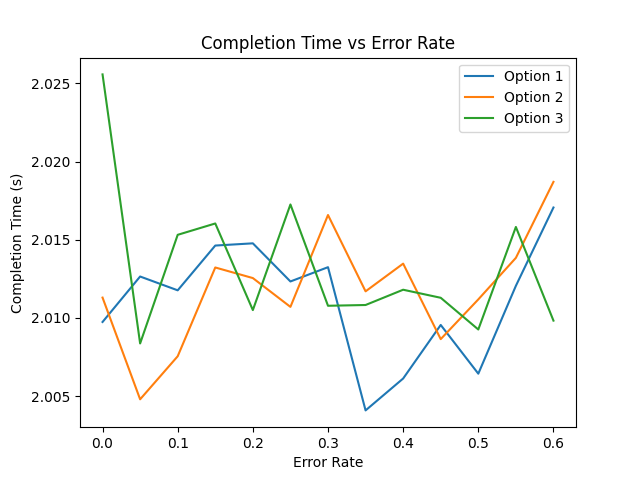
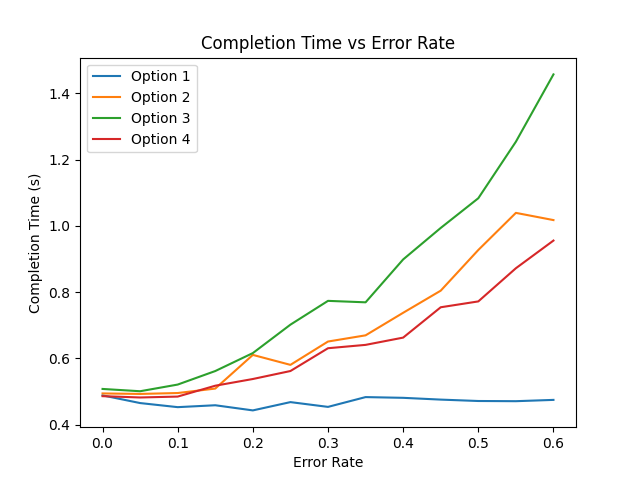
all options implemented, option 5 takes way too long, trying to fix the issue

diff --git a/team4/file_transfer.py b/team4/file_transfer.py
@@ -50,7 +50,7 @@ def make_packet(file_path, packet_size=1024):
 
 def create_udp_socket():
     sock = socket.socket(socket.AF_INET, socket.SOCK_DGRAM)
-    sock.settimeout(2)  # Set a shorter timeout for socket operations
+    sock.settimeout(0.5)  # Set a shorter timeout for socket operations
     return sock
 
 def send_packet(sock, packet, address):
@@ -59,18 +59,19 @@ def send_packet(sock, packet, address):
 def receive_packet(sock, buffer_size=1030):  # Increased buffer size to 1030 (1024 + 6 for header)
     return sock.recvfrom(buffer_size)
 
-def send_file(file_path, update_fsm_state, option, error_rate, retry_count=3, address=('localhost', 12345)):
+def send_file(file_path, update_fsm_state, option, error_rate, ack_loss_rate, retry_count=3, address=('localhost', 12345)):
     packets = make_packet(file_path)
     sock = create_udp_socket()
     seq_num = 0
 
     for index, packet in enumerate(packets):
         rdt_packet = make_rdt_packet(seq_num, packet)
-        try:
-            
-            send_packet(sock, rdt_packet, address)
-            print(f"Client: Sent packet {index}")
-            while True:
+        
+        while True:
+            try:
+                send_packet(sock, rdt_packet, address)
+                print(f"Client: Sent packet {index}")
+
                 #Wait for acknoledgement
                 ack_packet, _ = receive_packet(sock) #checksum, seq_num
                 ack_checksum, ack_seq_num = parse_ack_packet(ack_packet)
@@ -82,31 +83,37 @@ def send_file(file_path, update_fsm_state, option, error_rate, retry_count=3, ad
                     ack_seq_num = 1 - ack_seq_num  #flip sequence number to from 1 to 0
                     #continue  # Simulate packet loss
 
+                if random.random() < ack_loss_rate:
+                    print(f"option4: Simulating ACK loss for packet {index}")
+                    continue  # Simulate ACK loss by skipping this iteration
+
                 if ack_seq_num == seq_num and not is_ack_corrupt(ack_packet):
                     print(f"Client: Received ACK for packet {index}")
                     seq_num = 1 - seq_num
                     break  #continue with next packet
                 else: #acknoledgement corrupt or out of sequence, Retransmitting.
-                    send_packet(sock, rdt_packet, address)  #resend current package
+                    #send_packet(sock, rdt_packet, address)  #resend current package #commented out because I of line 72 will resend anyways
                     print(f"Client: ack is out of sequence, retransmitting packet {index}")
-        except ConnectionResetError as e:
-            print(f"ConnectionResetError: {e}")
-            if retry_count > 0:
-                print(f"Retrying... {retry_count} attempts left.")
-                time.sleep(1)  # Reduced sleep duration
-                send_file(file_path, update_fsm_state, option, error_rate, retry_count - 1, address)
-                return
-            else:
+    
+            except ConnectionResetError as e:
+                print(f"ConnectionResetError: {e}")
+                if retry_count > 0:
+                    print(f"Retrying... {retry_count} attempts left.")
+                    time.sleep(1)  # Reduced sleep duration
+                    send_file(file_path, update_fsm_state, option, error_rate, retry_count - 1, address)
+                    return
+                else:
+                    update_fsm_state(f"Error sending packet {index}: {e}")
+                    return
+            except socket.timeout:
+                print(f"Timeout waiting for ACK for packet {index}")
+                update_fsm_state(f"Timeout waiting for ACK for packet {index}")
+                #return
+            except Exception as e:
+                print(f"Error sending packet {index}: {e}")
                 update_fsm_state(f"Error sending packet {index}: {e}")
-                return
-        except socket.timeout:
-            print(f"Timeout waiting for ACK for packet {index}")
-            update_fsm_state(f"Timeout waiting for ACK for packet {index}")
-            return
-        except Exception as e:
-            print(f"Error sending packet {index}: {e}")
-            update_fsm_state(f"Error sending packet {index}: {e}")
-            return
+                #return
+        
         update_fsm_state(f"Sent packet {index}")
 
     # Send an empty packet to indicate the end of the file transfer
@@ -129,7 +136,7 @@ def corrupt_packet(packet):
     return header + bytes(corrupted_data)
 
 
-def receive_file(update_fsm_state, option, error_rate, sock, listen_address, save_path):
+def receive_file(update_fsm_state, option, error_rate, data_loss_rate , sock, listen_address, save_path):
     while True:
         try:
             sock.bind(listen_address)
@@ -152,6 +159,14 @@ def receive_file(update_fsm_state, option, error_rate, sock, listen_address, sav
                 #old_rdt_packet = rdt_packet
                 rdt_packet = corrupt_packet(rdt_packet)
                 #print(f"old: {calculate_checksum(old_rdt_packet)}, new: {calculate_checksum(rdt_packet)}, is_corrupt(rdt_packet){is_corrupt(rdt_packet)}")
+
+            #data_loss_rate = 0.2  # 20% probability of dropping DATA packets
+
+            # Simulate DATA packet loss
+            if random.random() < data_loss_rate and parse_rdt_packet(rdt_packet)[2] != b'':
+                print(f"Option 5: Simulating DATA packet loss for packet {index}")
+                continue  # Skip processing the received DATA packet
+
 
             if not is_corrupt(rdt_packet):
                 _, seq_num, data = parse_rdt_packet(rdt_packet)
@@ -179,12 +194,12 @@ def receive_file(update_fsm_state, option, error_rate, sock, listen_address, sav
                 send_packet(sock, ack_packet, sender_address)
         except socket.timeout:
             print(f"Timeout waiting for packet {index}")
-            update_fsm_state(f"Timeout waiting for packet{index}")
-            return
+            update_fsm_state(f"Timeout waiting for packet {index}")
+            #return
         except Exception as e:
             print(f"Error receiving packet {index}: {e}")
             update_fsm_state(f"Error receiving packet {index}: {e}")
-            return
+            #return
 
     with open(save_path, 'wb') as f:
         for i in range(len(received_packets)):

diff --git a/team4/performance_plots.py b/team4/performance_plots.py
@@ -6,35 +6,51 @@ from file_transfer import send_file, receive_file, create_udp_socket  # Import c
 def update_fsm_state(state):
     print(f"FSM State: {state}")
 
-def start_server(option, error_rate):
+def start_server(option, error_rate, data_loss_rate):
     def server_thread():
-        receive_file(update_fsm_state, option, error_rate, sock=create_udp_socket(), listen_address=('localhost', 12345), save_path='received_image.jpg')
+        receive_file(update_fsm_state, option, error_rate, data_loss_rate, sock=create_udp_socket(), listen_address=('localhost', 12345), save_path='received_image.jpg')
     thread = threading.Thread(target=server_thread, daemon=True)
     thread.start()
     return thread
 
 def measure_completion_time(file_path, option, error_rate):
     if option == 1: # noerrors
-        server_thread = start_server(option, 0)
-        time.sleep(1)  # Give the server some time to start
+        server_thread = start_server(option, 0, 0)
+        time.sleep(0.5)  # Give the server some time to start
         start_time = time.time()
-        send_file(file_path, update_fsm_state, option, 0)
+        send_file(file_path, update_fsm_state, option, 0, 0)
         server_thread.join()  # Wait for the server to finish
         end_time = time.time()
         return end_time - start_time
     elif option == 2:
-        server_thread = start_server(option, 0)
-        time.sleep(1)  # Give the server some time to start
+        server_thread = start_server(option, 0, 0)
+        time.sleep(0.5)  # Give the server some time to start
         start_time = time.time()
-        send_file(file_path, update_fsm_state, option, error_rate)
+        send_file(file_path, update_fsm_state, option, error_rate, 0)
         server_thread.join()  # Wait for the server to finish
         end_time = time.time()
         return end_time - start_time
     elif option == 3:
-        server_thread = start_server(option, error_rate)
-        time.sleep(1)  # Give the server some time to start
+        server_thread = start_server(option, error_rate, 0)
+        time.sleep(0.5)  # Give the server some time to start
         start_time = time.time()
-        send_file(file_path, update_fsm_state, option, 0)
+        send_file(file_path, update_fsm_state, option, 0 , 0)
+        server_thread.join()  # Wait for the server to finish
+        end_time = time.time()
+        return end_time - start_time
+    elif option == 4:
+        server_thread = start_server(option, 0, 0)
+        time.sleep(0.5)  # Give the server some time to start
+        start_time = time.time()
+        send_file(file_path, update_fsm_state, option, 0 , error_rate)
+        server_thread.join()  # Wait for the server to finish
+        end_time = time.time()
+        return end_time - start_time
+    elif option == 5:
+        server_thread = start_server(option, 0, error_rate)
+        time.sleep(0.5)  # Give the server some time to start
+        start_time = time.time()
+        send_file(file_path, update_fsm_state, option, 0 , 0)
         server_thread.join()  # Wait for the server to finish
         end_time = time.time()
         return end_time - start_time
@@ -42,14 +58,14 @@ def measure_completion_time(file_path, option, error_rate):
 
 
 def plot_performance():
-    file_path = 'C:/Users/lpenama/Downloads/Repo/Spring-25---Network-Design/team4/phase_2.jpg'  # Use a 500KB file for transmission
+    file_path = r'C:\Users\Luis D. Pena Mateo\OneDrive\Desktop\Spring2025\Spring-25---Network-Design\team4\phase_2_JPG_500kB.jpg'  # Use a 500KB file for transmission
     error_rates = [i / 100 for i in range(0, 65, 5)]
-    options = [1, 2, 3]
+    options = [1, 2, 3, 4]
     completion_times = {option: [] for option in options}
 
     for option in options:
         for error_rate in error_rates:
-            times = [measure_completion_time(file_path, option, error_rate) for _ in range(10)]
+            times = [measure_completion_time(file_path, option, error_rate) for _ in range(3)]
             avg_time = sum(times) / len(times)
             completion_times[option].append(avg_time)
             print(f"Option {option}, Error Rate {error_rate}: {avg_time} seconds")

diff --git a/team4/server_phase_2.py b/team4/server_phase_2.py
@@ -14,17 +14,19 @@ class FileTransferServer:
 
     def create_udp_socket(self):
         sock = socket.socket(socket.AF_INET, socket.SOCK_DGRAM)
-        sock.settimeout(2)  # Set a shorter timeout for socket operations
+        sock.settimeout(0.2)  # Reduced timeout for faster retries
         return sock
 
     def start(self):
-        threading.Thread(target=self.receive_file_with_status, daemon=True).start()
+        receiver_thread = threading.Thread(target=self.receive_file_with_status, daemon=True)
+        receiver_thread.start()
+        receiver_thread.join()  # Wait for the receiver thread to finish
 
     def receive_file_with_status(self):
         try:
             print("Receiving file...")
             start_time = time.time()
-            receive_file(self.update_fsm_state, option=1, error_rate=0.0, sock=self.sock, listen_address=self.listen_address, save_path=self.save_path)  # Pass the required arguments
+            receive_file(self.update_fsm_state, option=1, error_rate=0.0, data_loss_rate=0.1, sock=self.sock, listen_address=self.listen_address, save_path=self.save_path)
             end_time = time.time()
             transfer_time = end_time - start_time
             print(f"File received successfully in {transfer_time:.2f} seconds!")
@@ -37,5 +39,5 @@ class FileTransferServer:
 if __name__ == "__main__":
     server = FileTransferServer()
     server.start()
-    while True:
-        time.sleep(1)  # Keep the server running
+    #while True:
+        #time.sleep(1)  # Keep the server running

diff --git a/team4/client_phase_2.py b/team4/client_phase_2.py
@@ -5,7 +5,7 @@ def update_fsm_state(state):
     print(f"FSM State: {state}")
 
 if __name__ == "__main__":
-    file_path = 'C:/Users/Ayush_Pandey/Dev/Pandey_phase2/RDT/pandey/phase_2.jpg'  # Replace with the actual path to your image file
-    send_file(file_path, update_fsm_state, option=1, error_rate=0.0)
+    file_path = r'C:\Users\Luis D. Pena Mateo\OneDrive\Desktop\Spring2025\Spring-25---Network-Design\team4\phase_2_JPG_500kB.jpg'  # Replace with the actual path to your image file
+    send_file(file_path, update_fsm_state, option=1, error_rate=0.0, ack_loss_rate = 0.0)
     while True:
         time.sleep(1)  # Keep the client running until the transfer is complete
